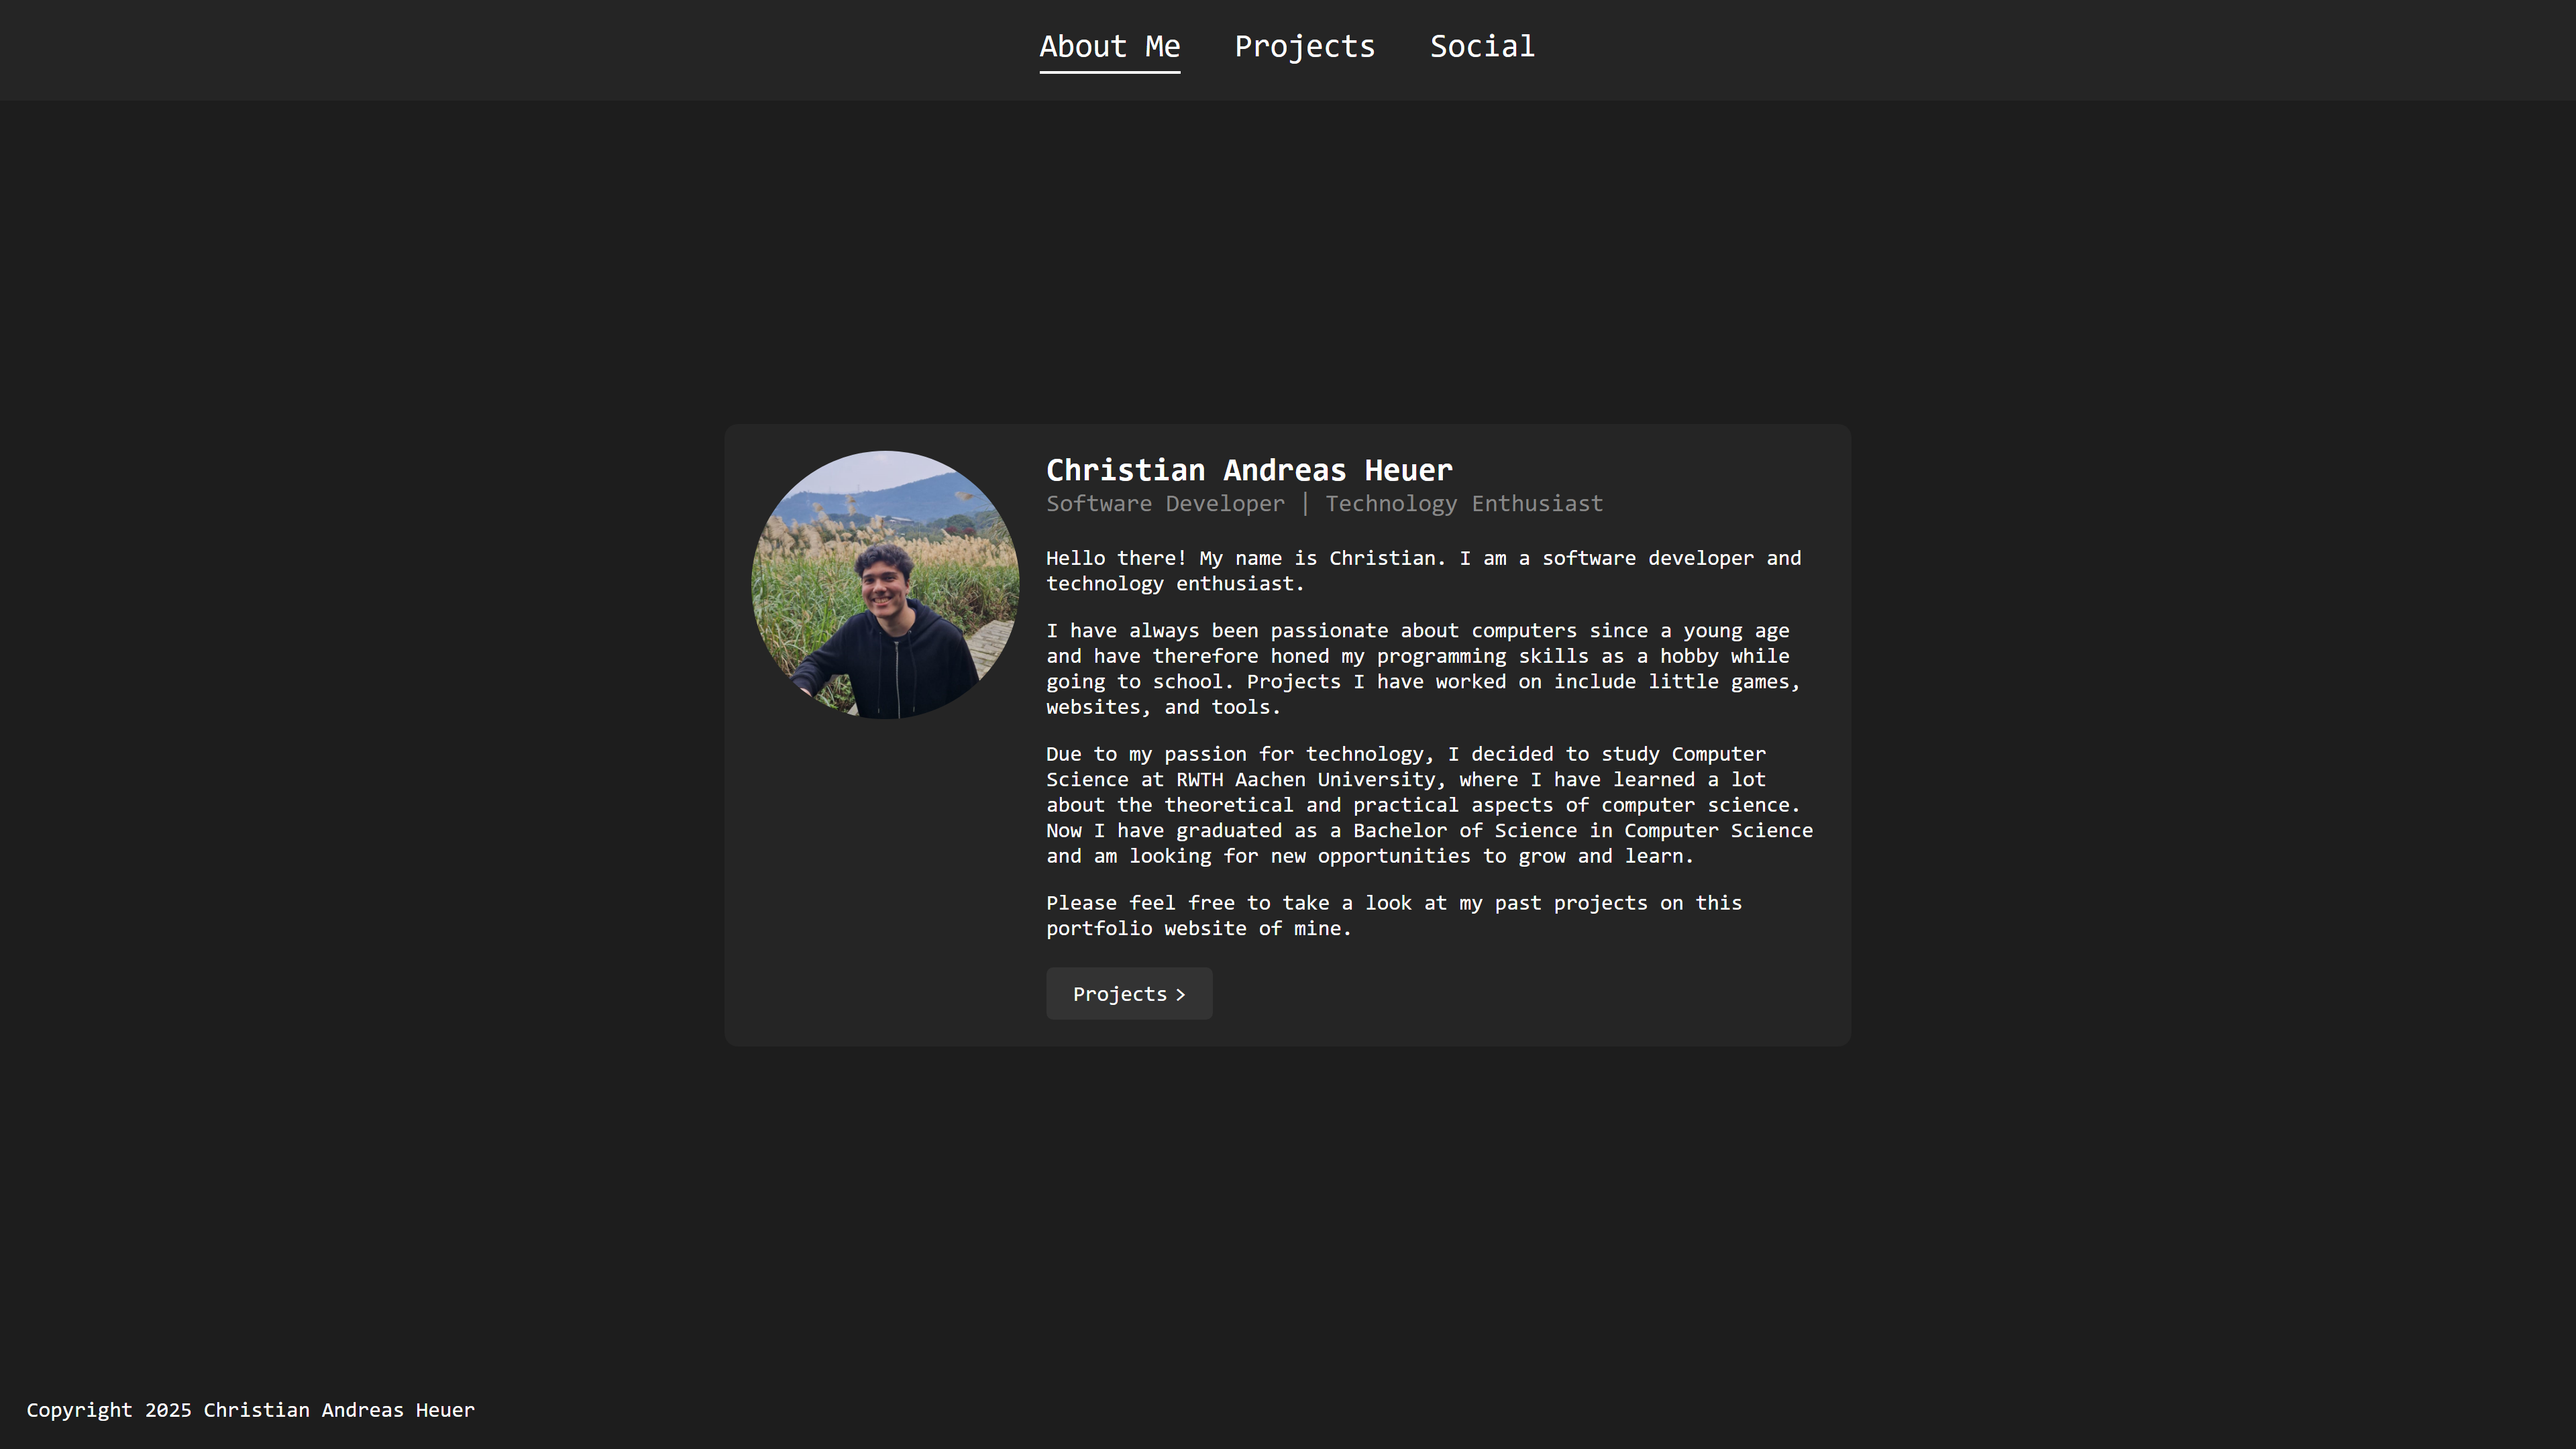
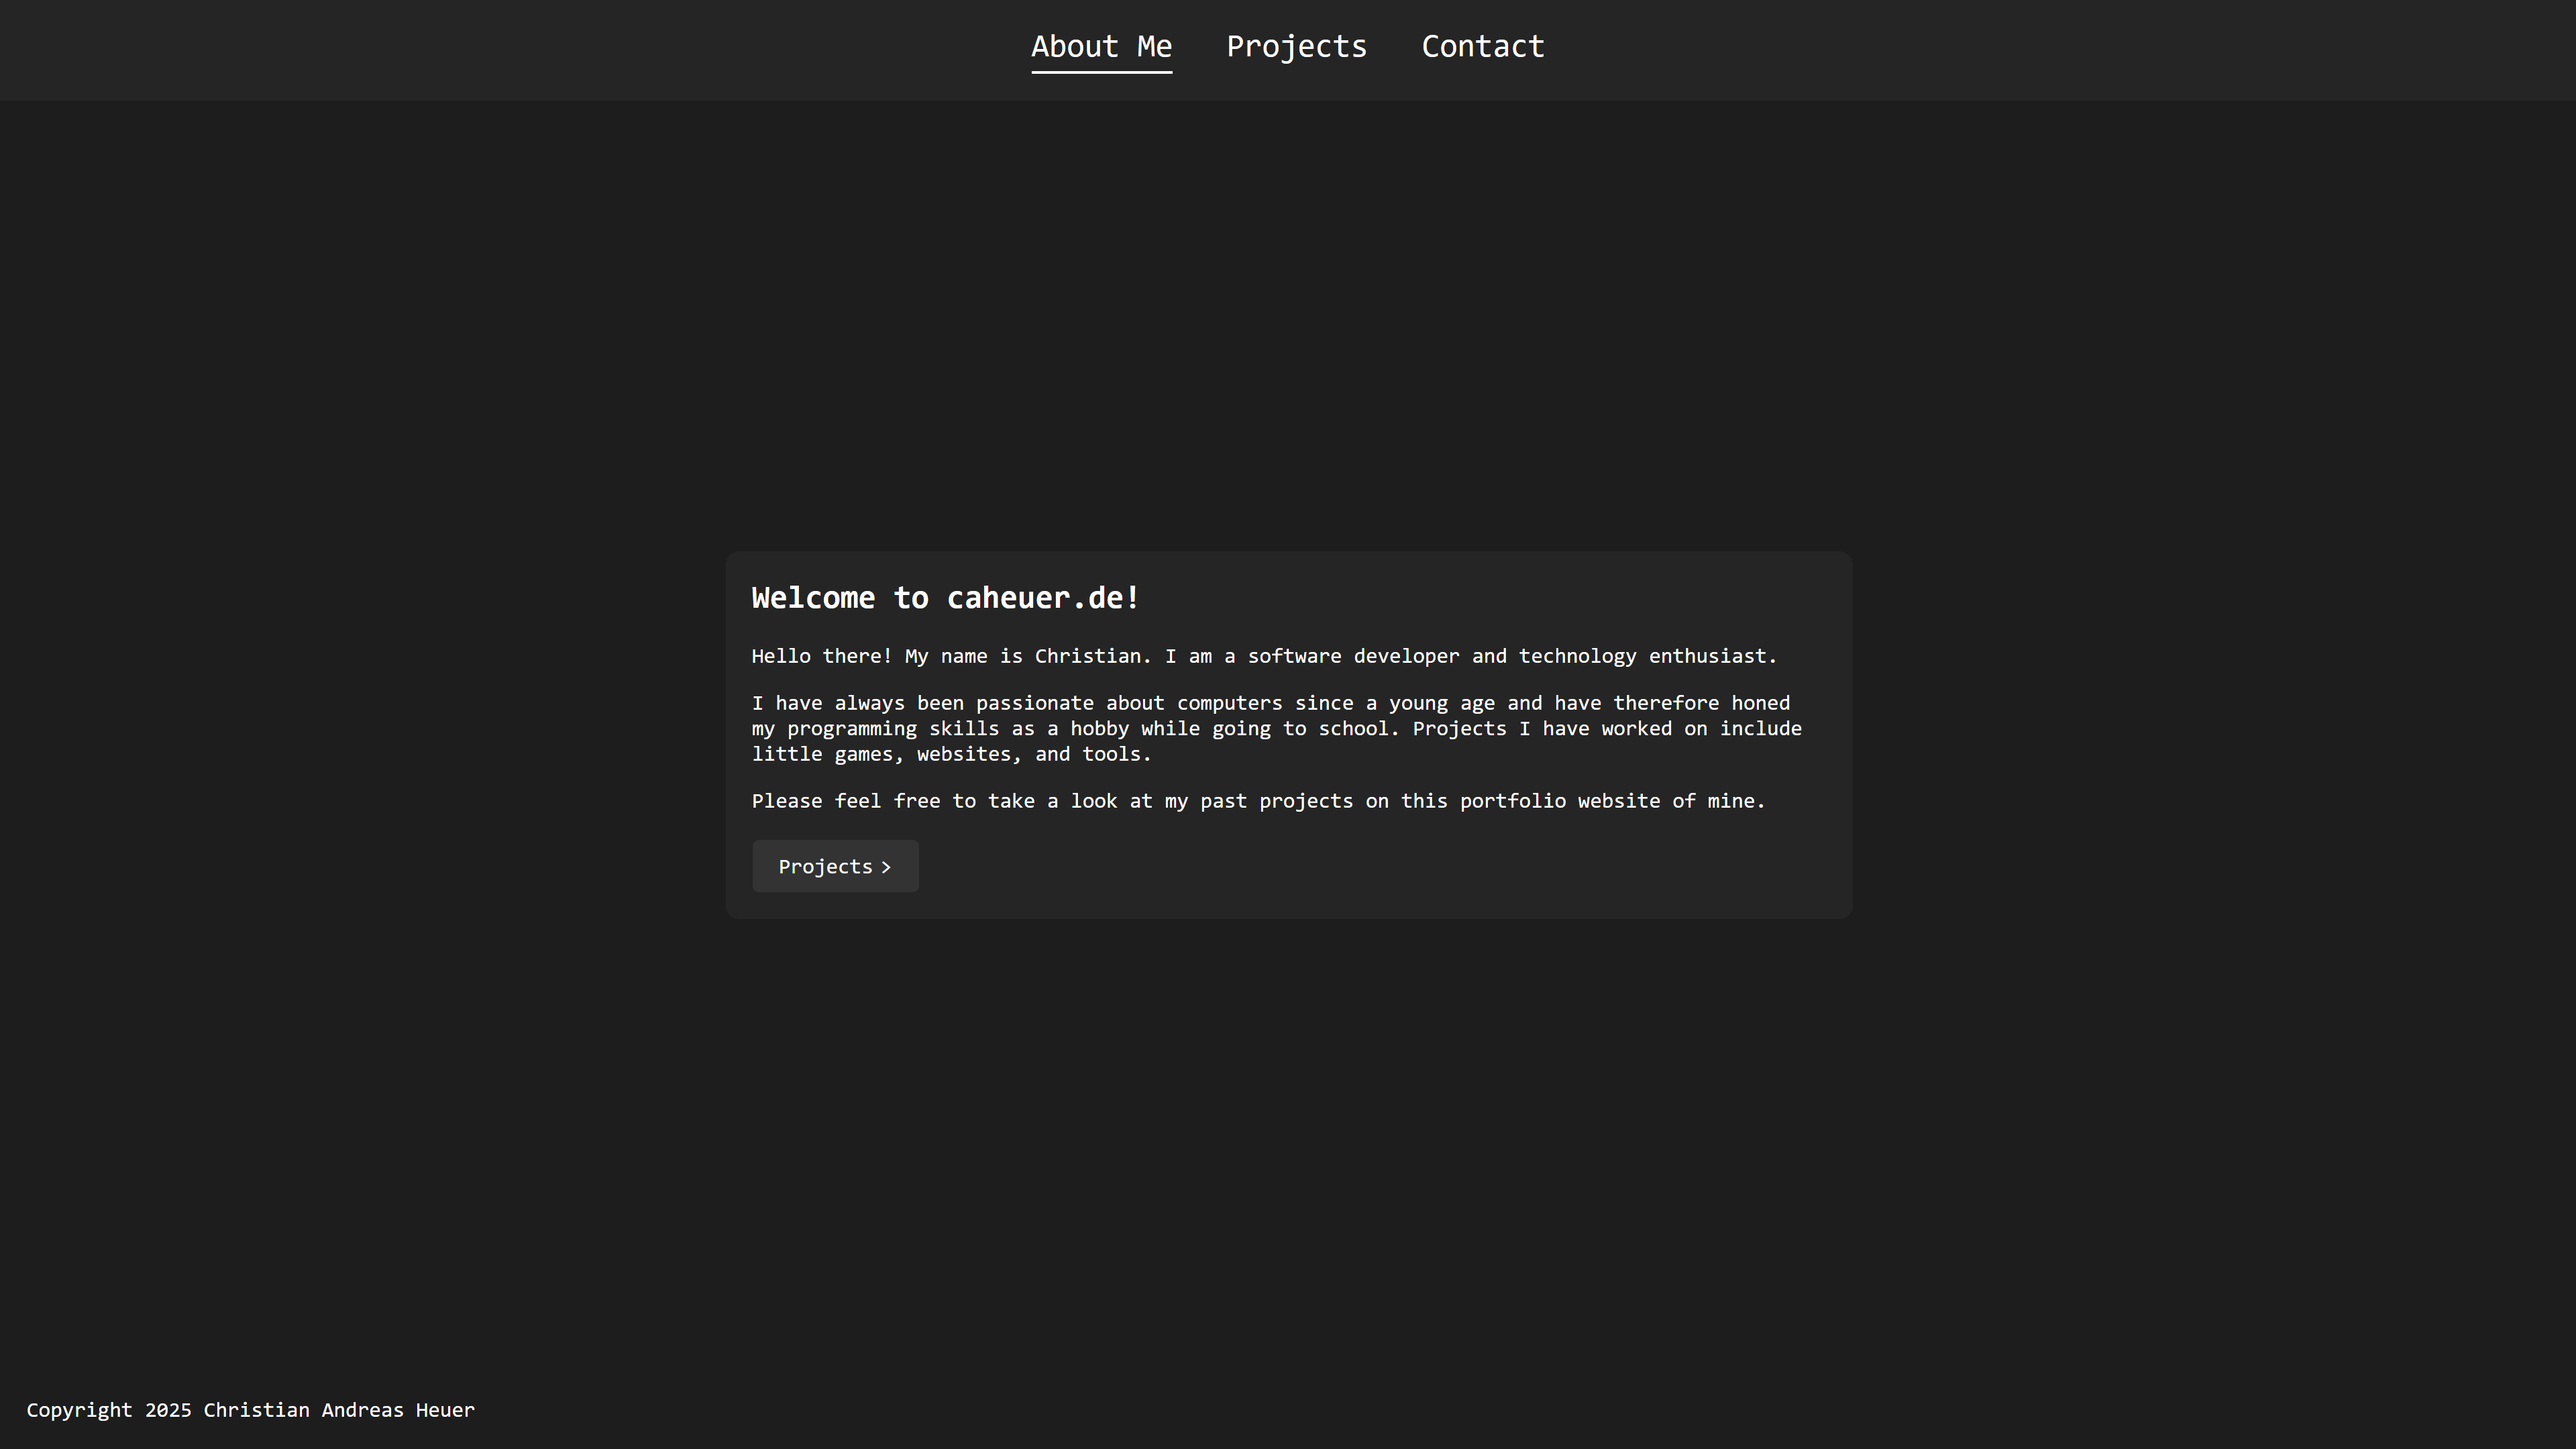
removed some private information

diff --git a/src/pages/Home.tsx b/src/pages/Home.tsx
@@ -1,16 +1,13 @@
 import './Home.css';
 
-import photo from '../assets/photo.jpg';
 import { Link } from 'react-router-dom';
 
 export default function Home() {
   return (
     <div className="card-wrapper">
       <div className="card">
-        <img src={photo} alt="Christian Andreas Heuer" className="photo" />
         <div>
-          <div className="name">Christian Andreas Heuer</div>
-          <div className="tagline">Software Developer | Technology Enthusiast</div>
+          <div className="name">Welcome to my website!</div>
           <div className="description">
             <p>
               Hello there!
@@ -20,10 +17,6 @@ export default function Home() {
             <p>
               I have always been passionate about computers since a young age and have therefore honed my programming skills as a hobby while going to school.
               Projects I have worked on include little games, websites, and tools.
-            </p>
-            <p>
-              Due to my passion for technology, I decided to study Computer Science at RWTH Aachen University, where I have learned a lot about the theoretical and practical aspects of computer science.
-              Now I have graduated as a Bachelor of Science in Computer Science and am looking for new opportunities to grow and learn.
             </p>
             <p>
               Please feel free to take a look at my past projects on this portfolio website of mine.

diff --git a/src/pages/Contact.tsx b/src/pages/Contact.tsx
@@ -12,9 +12,6 @@ export default function Contact() {
           Email me at <a href="mailto:mail@caheuer.de">mail@caheuer.de</a>
         </div>
         <div className="social-media-row">
-          <a href="https://www.linkedin.com/in/christian-andreas-heuer-406598209/" className="social-media-icon">
-            <FontAwesomeIcon icon={faLinkedin} />
-          </a>
           <a href="https://github.com/caheuer" className="social-media-icon">
             <FontAwesomeIcon icon={faGithub} />
           </a>

diff --git a/src/Footer.tsx b/src/Footer.tsx
@@ -2,6 +2,6 @@ import './Footer.css';
 
 export default function Footer() {
     return <div className="footer">
-        <div>Copyright 2025 Christian Andreas Heuer</div>
+        <div>Copyright 2025 caheuer.de</div>
     </div>;
 }
